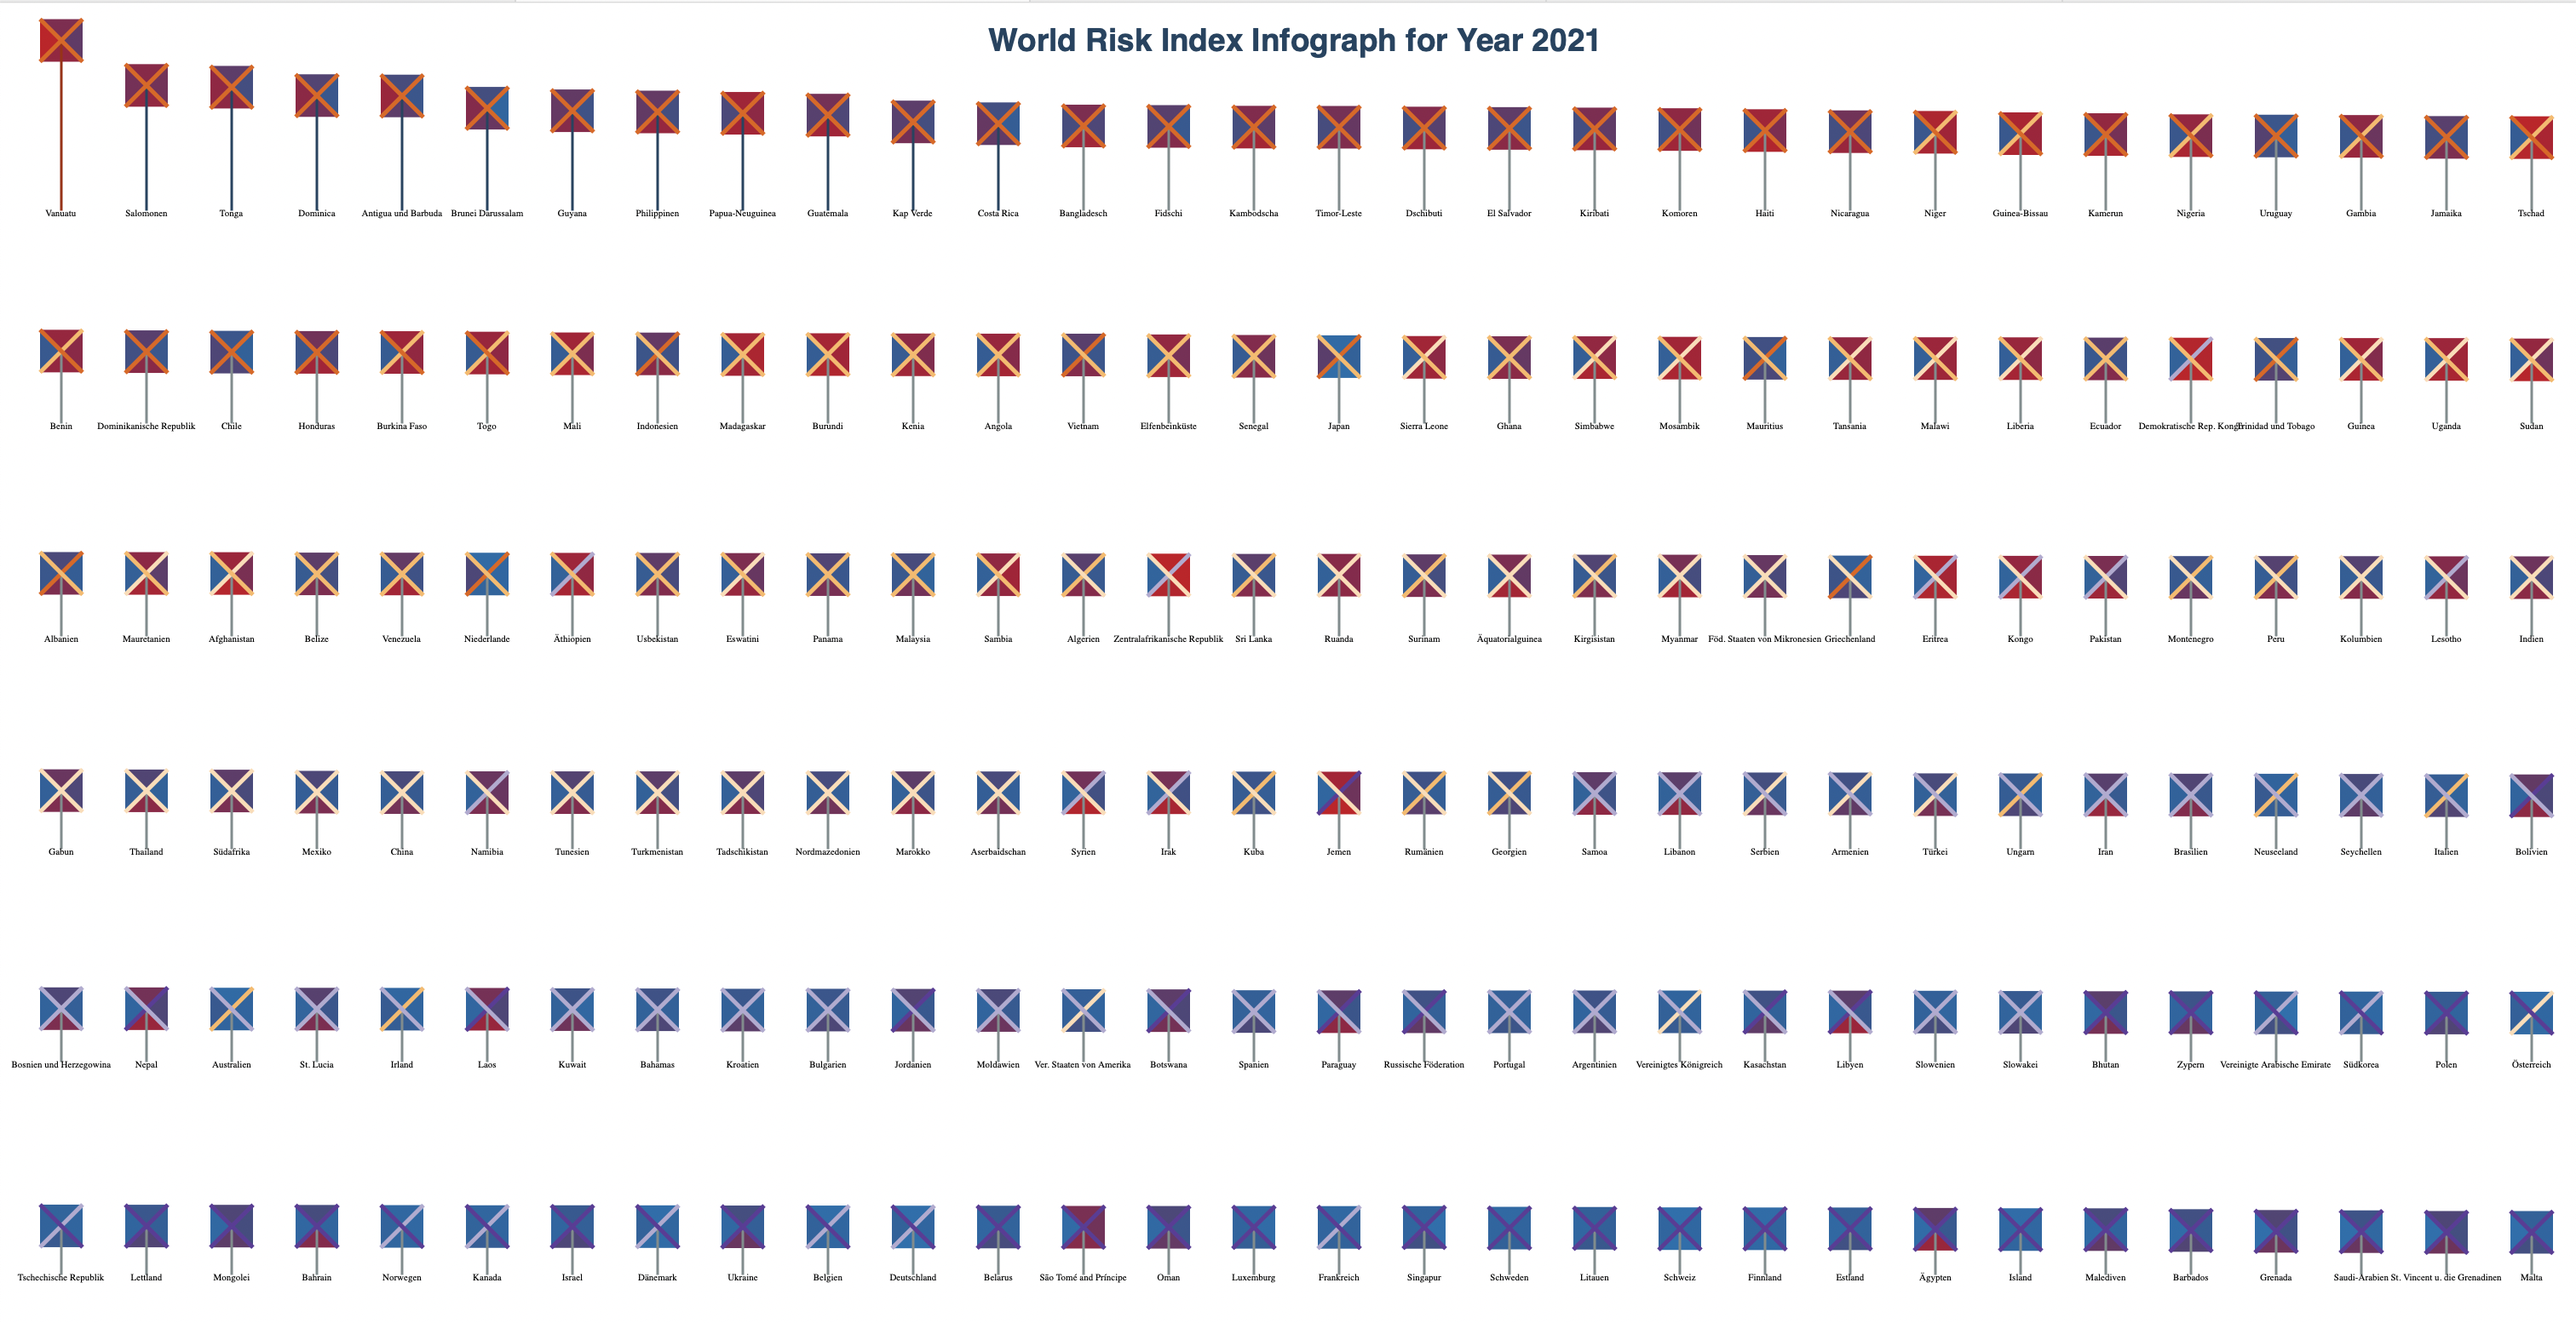
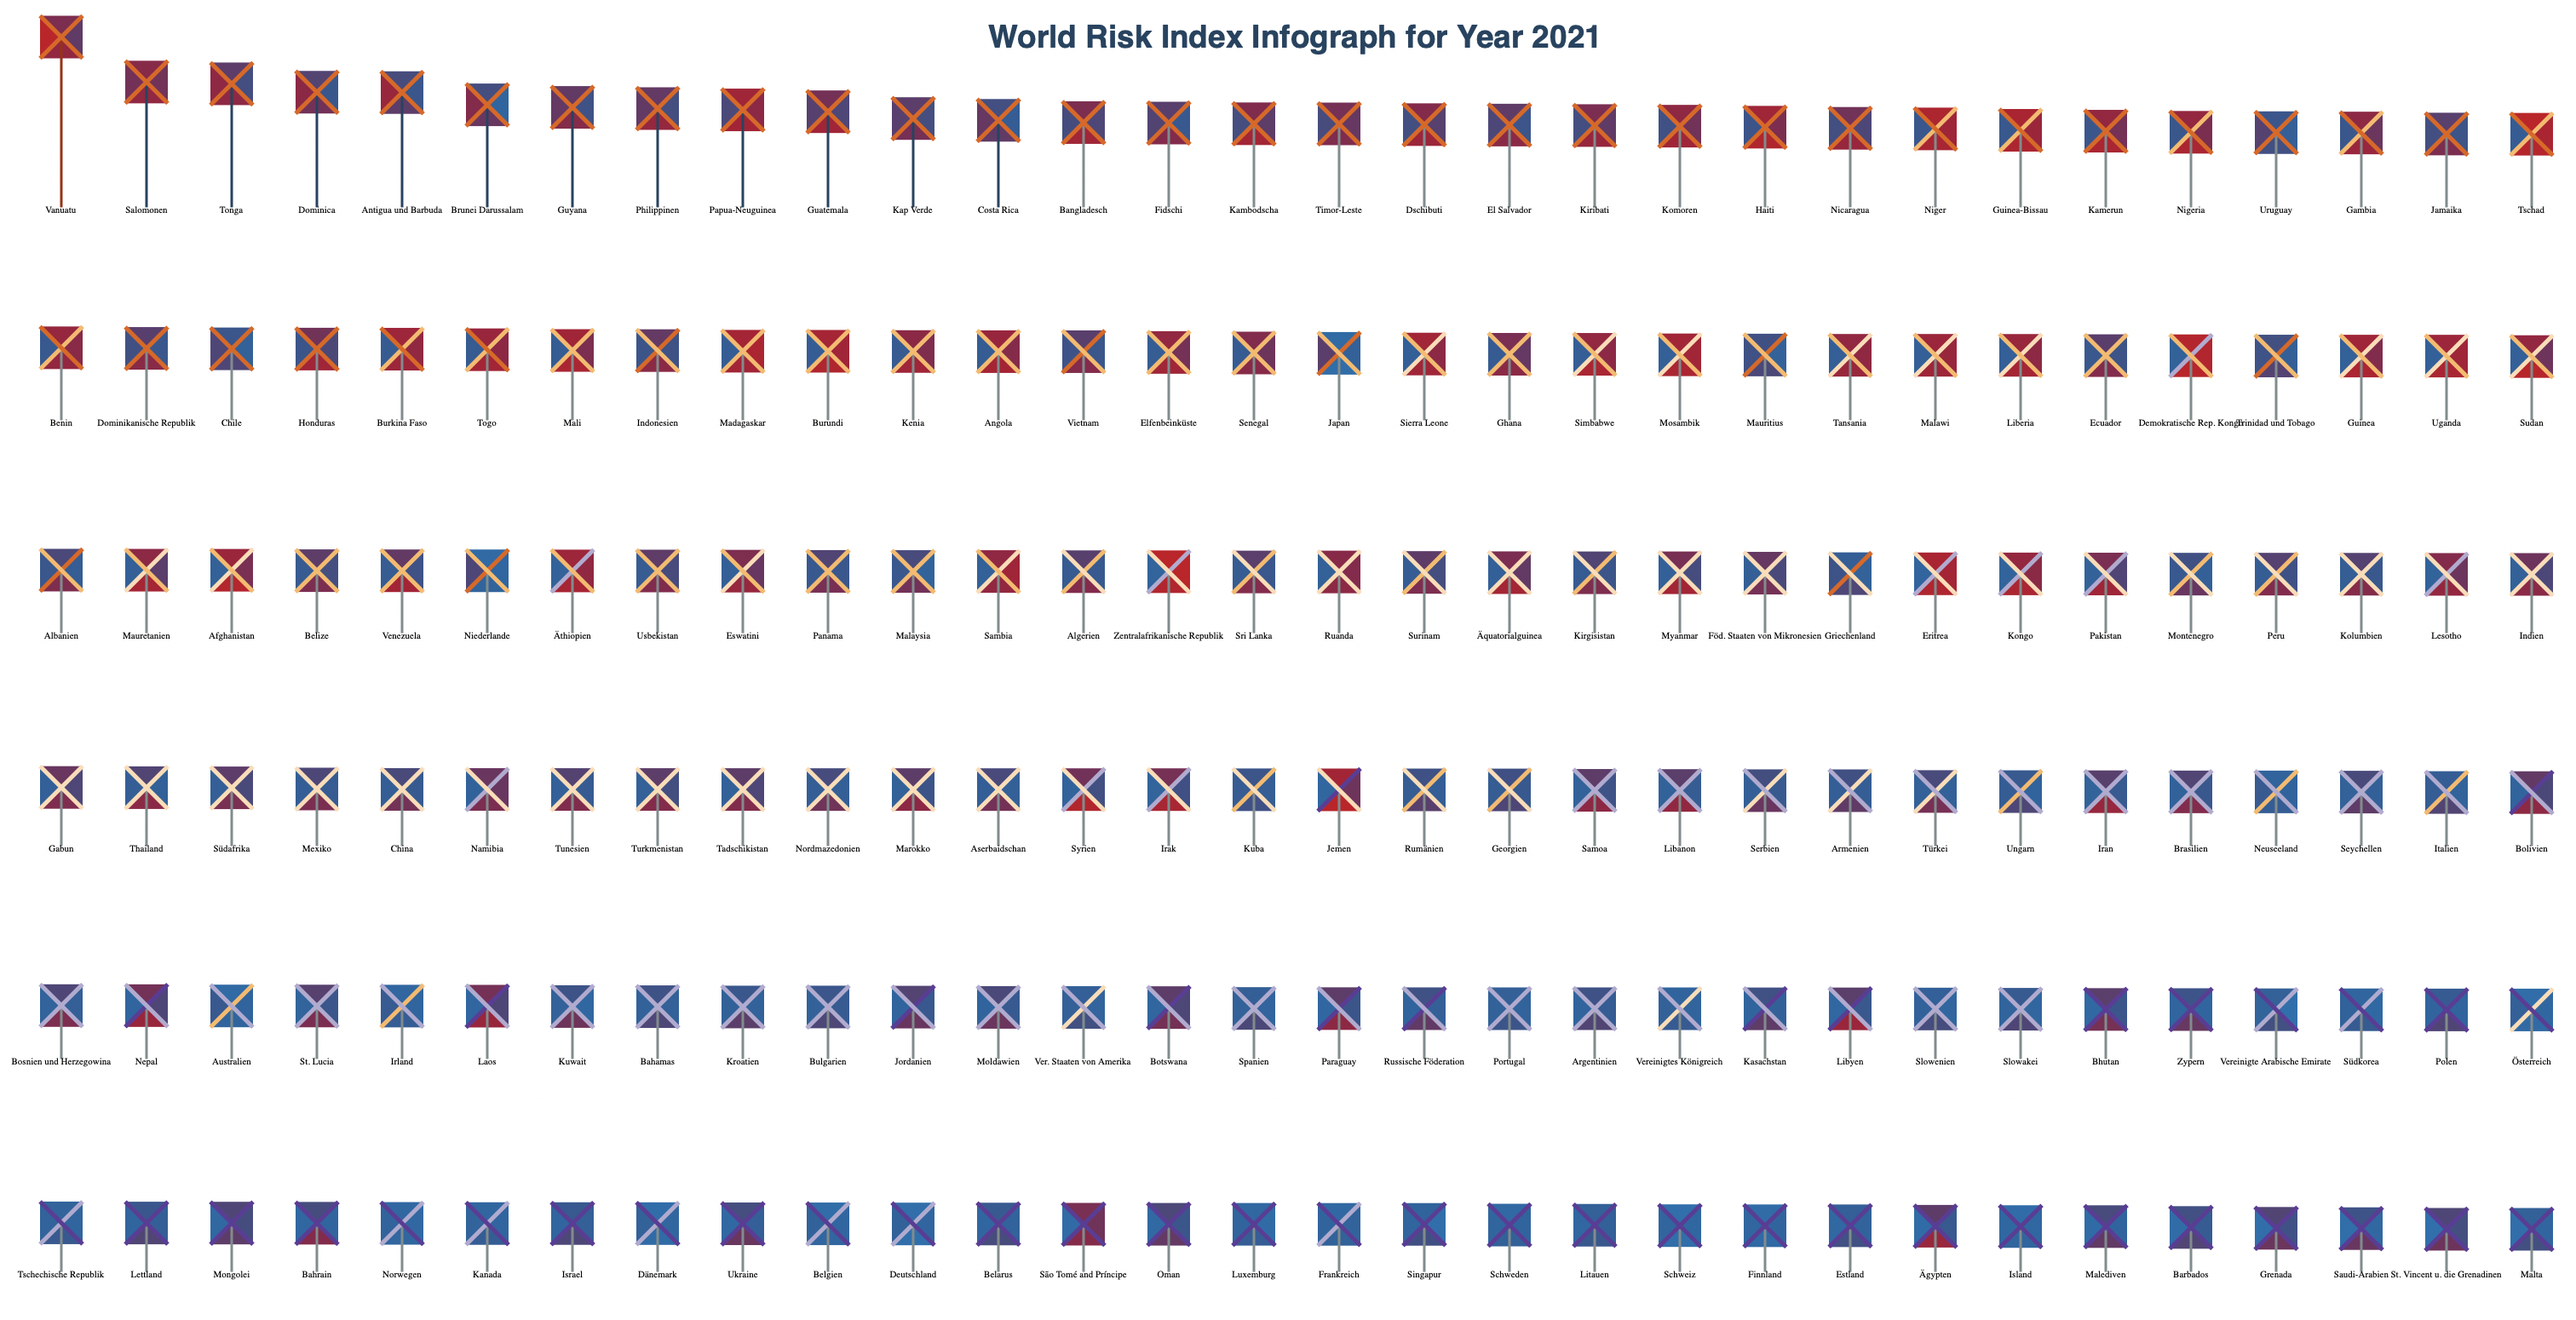
Updated readme

diff --git a/Drawing Data Pt 2 - Color & Accessibility/README.md b/Drawing Data Pt 2 - Color & Accessibility/README.md
@@ -18,7 +18,7 @@ I used the [World Disaster Risk Dataset](https://www.kaggle.com/datasets/tr1gg3r
 I have also uploaded the same dataset in this directory and you can find it in the [data/World Risk Index](https://github.com/gauravpatil123/Interactive-Visualizations/blob/main/Drawing%20Data/data/World%20Risk%20Index/world_risk_index.csv) directory.
 
 **Scripts**</br>
-- World_Risk_Index_Inforgraph.html</br>
+- Color_World_Risk_Index_Inforgraph.html</br>
 Running this script on a server will create the visual infograph which is based
 on the dataset mentioned above. I have used several metrics from the dataset
 including exposure, vulnerability, suceptibility, wri score, lack of coping
@@ -34,9 +34,9 @@ mentioned above. (You might need to zoom in your browser to see the enlarged leg
   2. Changed the gradient scale from monochromatic to dichromatic.
   3. Made the gradient color scale - colorblind safe. - (using COLORBREWER 2.0 & Adobe Color)
   4. Updated the category scale of metrics [Exposure category & WRI category] from *rainbow* to a colorblind safe scale.
-    - <img src="data/Images/category_scales.png" width=1000>
+    <img src="data/Images/category_scales.png" width=1000>
   5. Updated the Quantized WRI category scale to have more neutral colors which are colorblind safe.
-    - <img src="data/Images/wri_stem_category_scale.png" width=500>
+    <img src="data/Images/wri_stem_category_scale.png" width=500>
   6. Used seperate color scales for the categorized metrics (Exposure category & WRI category) & liniearly scaled metrics (exposure, vulnerability, suceptibility, lack of coping capability) to avoid color conflicts and to make these scales colorblind safe.
 
 **Outputs**</br>
